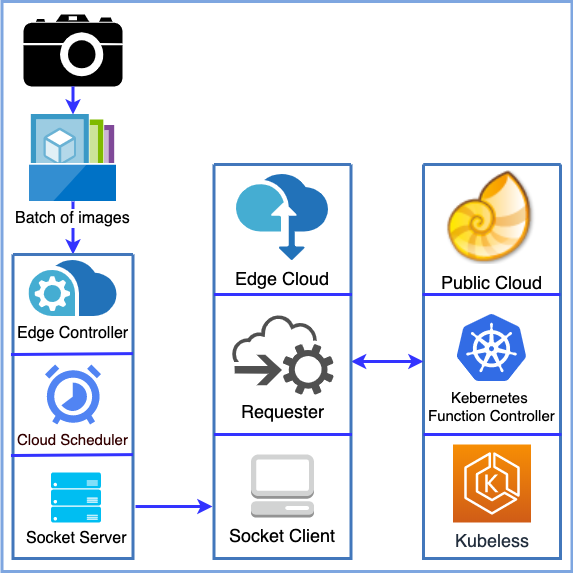
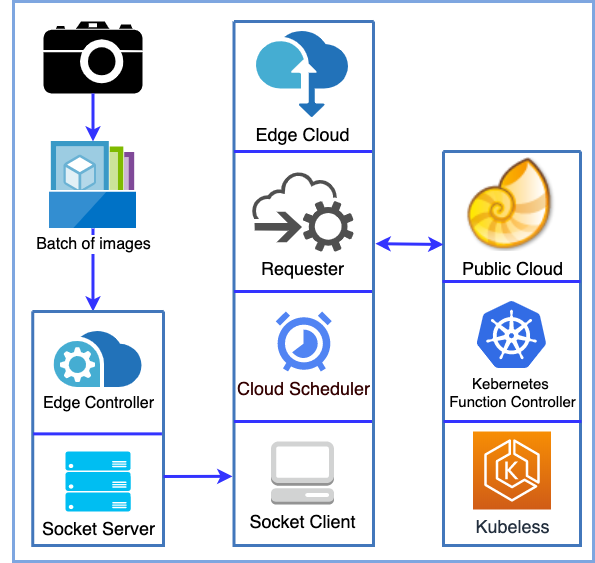
First pass on result section

Changed region(s): [[0.0, 0.0, 1.0, 1.0]]

diff --git a/results.tex b/results.tex
@@ -1,57 +1,36 @@
-In this section, we empirically evaluate STOIC's performance when executing machine learning applications. We compare its use of multiple runtimes
-versus solely using a single runtime for all batches.  In the sections
-that follow, we first describe 
-the machine learning application that we consider. We then
-present our experimental setup and results. 
+In this section, we empirically evaluate STOIC's performance when executing machine learning application. For every request, we run benchmark application on all available runtimes and compare the selection made by STOIC based on the predicted latency and the runtime with least total latency. In this section, we first describe the benchmark application that we consider, followed by our experimental setup and results. 
 
 \subsection{Benchmark Application and Dataset}
 
-We evaluate STOIC using an image processing application that classifies animal images from a wildlife monitoring system called ``Where's The Bear" (WTB)~\cite{ref:wtb}. ``Where's The Bear" is an end-to-end distributed data acquisition and analytics system that implements an IoT architecture and edge cloud. Our application makes inferences for each photo taken by deployed camera traps in Sedgwick Natural Reserve using a convolutional neural network (CNN)~\cite{ref:cnn}.  We train the model using labeled images from the WTB dataset. Technically, the application employs Tensorflow and Scikit-learn~\cite{ref:scikit} to implement 
-image classification.  
+We evaluate STOIC using an image processing application that classifies animal images from a wildlife monitoring system called ``Where's The Bear" (WTB)~\cite{ref:wtb}. ``Where's The Bear" is an end-to-end distributed data acquisition and analytics system that implements an IoT architecture and edge cloud. Our application makes inferences for each photo taken by deployed camera traps in Sedgwick Natural Reserve using a convolutional neural network (CNN)~\cite{ref:cnn}.  We train the model using labeled images from the WTB dataset. Technically, the application employs Tensorflow and Scikit-learn~\cite{ref:scikit} to implement image classification.  
 
 In total, there are five classes that we consider in the CNN model training: Bird, Fox, Rodent, Human and Empty. Since class size is unbalanced due to frequencies of animal occurrences, we up-sample minority classes (e.g. fox) using the Keras ImageDataGenerator~\cite{ref:keras}.  Doing so ensures that the classification model is not biased. We resize every image in the WTB dataset to $1920 \times 1080$, and for each class, the dataset contains 251 images used to train the CNN model. Once model training is complete, the application stores this model in hdf5 format in cloud storage at both edge cloud (disk storage) and Nautilus (a shared volume in a Ceph file system).
 
-\subsection{Performance Evaluation}
+To better harness the multiple GPU runtime in the public cloud, the application assigns each GPU to a spawned process, namely worker, and adds all images in the batch to a shared asynchronous queue. Upon the execution, all workers pick up the image job from the shared queue until it is exhausted. This mechanism ensures multiple GPUs evenly divide the workloads and achieve quasi-linear acceleration at application level, where the perfect linear speed-up is unattainable due to model loading and memory transfer overhead~\cite{ref:multi_gpu}. 
 
-\begin{table}[t] \centering 
-\input{tables/validation}
-\caption{Mean and stdev. of total response time~($T_r$) and processing time~($T_p$) of 40-image batch: STOIC schedules tasks onto the runtime (\textit{gpu1}) that has the least total response time~($T_r$).
-\label{tab:validation}}
-\end{table}
+\subsection{Efficacy Experiments}
 
-We first test the efficacy of STOIC by processing an image batch of fixed size at four runtimes individually and then compare them with STOIC. To make the result reliable, we again conduct the experiment 10 times and list the mean and standard deviation of total response time~($T_r$) and processing time~($T_p$) in Table~\ref{tab:validation}. We can observe from Table~\ref{tab:validation} that STOIC schedules 40-image batch to \textit{gpu1} runtime, based on its prediction that  \textit{gpu1} would have the least total response time~($T_r$). One important observation is that \textit{gpu2} runtime has even lower processing time~($T_p$) than \textit{gpu1}, but STOIC disregard \textit{gpu2} in this scenario, because its gain in processing time~($T_p$) does not compensate for its lengthy deployment time~($T_d$) on Nautilus cloud.
-
-\begin{figure}[t] \centering 
-\includegraphics[scale=0.32]{response-time}
-\caption{Total Response Time~($T_r$) of image batches of growing sizes: The x-axis represents the batch size, while the y-axis is the total response time~($T_r$). STOIC, which is depicted in the blue dashed line, schedules the task on the runtime with the least total response time.  
-\label{fig:response-time}}
-\end{figure}
-
-We next test STOIC by processing a series of image batches of growing sizes on the four runtimes and STOIC. Figure~\ref{fig:response-time} shows their total response times. The x-axis is the size of the image batch and the y-axis is the total response time~($T_r$) in seconds. The red curve shows that latency
-increases linearly over the \textit{edge} runtime.  The yellow curve shows the performance of the \textit{cpu} runtime in the Nautilus cloud. 
-We observe that its slope is more moderate than \textit{edge} runtime since CPUs in nodes of Nautilus cloud are usually more powerful than those in the edge cloud. The pink and green curve represent the \textit{gpu1} and \textit{gpu2} runtimes, respectively, and they intersect at a batch size of 95, at which STOIC would switch the deployment of tasks from \textit{gpu1} to \textit{gpu2}. The blue dashed line depicts the total response time~($T_r$) of STOIC, which is able to schedule a series of tasks to the runtime with the least latency. According to such result, STOIC improves system performance by determining the best runtime
-for the given task dynamically.
+We first test the efficacy of STOIC by processing a sequence of image batches at four runtimes individually and then compare them with the determined runtime by STOIC. According to 2016 WTB dataset, the size of image batch fits to normal distribution $\mathbf{N}(\mu = 42.75, \sigma^2 = 39.5)$. To conduct an unbiased evaluation, we seed the simulator to make these image batches consistent across all runtimes and STOIC.
 
 
-%\subsection{Empirical Experiment}
-
-
-% \begin{table}[t]
-%     \centering
-%     \input{tables/24-batch}
-%     \caption{\textbf{Average total response time~($T_r$) and speed-up on 24-hour dataset}: Comparing with four single runtimes, STOIC achieves lowest average latency and speed-up ranging from 6.48\% to 32.05\%. }
-%     \label{tab:24-batches}
-% \end{table}
-
-
-We next perform an empirical evaluation of STOIC by comparing the total response time~($T_r$) of multiple image batches of different sizes across the four single runtimes and STOIC.  To accelerate the repetitive experiment, we developed a simulator to generate image batches based on the frequency distribution of the WTB dataset. 
-
-According to 2016 WTB dataset, the size of image batch fits to normal distribution $\mathbf{N}(\mu = 42.75, \sigma^2 = 39.5)$. Thus, the simulator generates 24 image batches in the edge controller to emulate streaming data in one day from open field camera traps. To conduct an unbiased evaluation, we seed the simulator to make these 24 image batches consistent across all runtimes and STOIC. 
+To make the result reliable, we conduct the experiment for a 24-hour time range, in which  154 image batches (616 executions) are processed by STOIC. Based on the data we observe, STOIC successfully selects the runtime of least latency by \textbf{85.1\%} of times (131 out of 154). We then compare the actual latency between the worst selection scenario and STOIC. The total latency of selected runtime by STOIC is 8041.06 seconds, whereas in the worst scenario the total latency is 18563.82 seconds. This indicates STOIC accelerates the execution of image processing by \textbf{2.3} times if the runtimes are erroneously selected by dispatcher.
 
 \begin{figure}[t] \centering 
-\includegraphics[scale=0.42]{figures/24-batches}
-\caption{Average total response time~($T_r$) on the 24-hour dataset: The x-axis represents runtimes, while the y-axis represents the average total response time~($T_r$) by STOIC and four other runtimes on the 24-hour dataset. The data labels on columns are specific numbers of $T_r$. The seeded simulator generates the 24-hour batch sizes from the distribution of historical data. 
-\label{fig:24-batch}}
+\includegraphics[scale=0.14]{gpu1_latency.png}
+\caption{The distribution of three components in total response time~($T_r$): Processing time ($T_p$), Runtime deployment time ($T_d$) and Transfer time ($T_t$). The x-axis represents the time range, while the y-axis is the frequency of executions. The deployment time, which is depicted in the red histogram, is volatile and error-prone to prediction.
+\label{fig:breakdown}}
 \end{figure}
 
-To ensure the validity of the outcome, we run each experiment 10 times for each runtime scenario and report the average value. Figure~\ref{fig:24-batch} shows the average total response time~($T_r$) for STOIC and the four individual runtimes. STOIC achieves the lowest average latency versus the four other single runtimes.  STOIC reduces total response time~($T_r$) by 32.05\% (versus \textit{edge}), 6.48\% (versus \textit{cpu}), 11.15\% (versus \textit{gpu1}) and 12.24\% (versus \textit{gpu2}) respectively. According to such a result, we conclude that STOIC outperforms single-runtime scheduling mechanism on the empirical datasets and real-world machine learning applications.
+We further analyze the data points where STOIC made erroneous selection and found two sources of error. First, the most error occurs around two batch sizes where the total response time of runtimes have approximately same latency. To be specific, the edge and GPU runtimes cross over at 35 image batch size, and 90 image batch size for the GPU1 and GPU2 runtimes. At these cross-points, the close predictions of latency lead to incorrect selection. Second, the deployment time for GPU runtimes are volatile and error-prone to prediction. As a representative instance, Figure~\ref{fig:breakdown} demonstrates the distribution of processing time ($T_p$), transfer time ($T_t$) and deployment time ($T_d$) of GPU1 runtime. We observe geometric distribution from the histogram of processing time and transfer time, whereas deployment time varies irregularly with many outliers. These two phenomenons lead to mistaken selections in the experiment.
+
+Further, we define an error metric, Mean Deadline Error (MDE), to better gauge the predictive capability of STOIC between edge cloud and GPU runtimes. Since the dedicated edge cloud is closer to the data source and more homogeneous and robust compared to public cloud, we are only concerned when GPU runtimes have longer total latency than edge cloud and STOIC deploys the workload to GPU runtimes. Mean Deadline Error is defined as $MDE = \frac{1}{n}\sum(L_g - L_e) \,|\ if \ L_g > L_e \ \& \ R_s = GPUx $, where $L_g$ is the latency of GPU runtime, $L_e$ is the latency of edge cloud, $R_s$ is the selected runtime by STOIC. Based on the experiment data, the MDE gpu1 is \textbf{26.68} seconds (44.18\% to the mean gpu1 runtime latency) and MDE gpu2 is \textbf{43.98} seconds (47.43\% to the mean gpu2 runtime latency). This result implies that the unstable deployment time of GPU runtimes significantly affects the accuracy of prediction made by STOIC. 
+
+\begin{figure}[t] \centering 
+\includegraphics[scale=0.35]{selector_duplicator.png}
+\caption{The selector and duplicator modes of STOIC. 
+\label{fig:duplicator}}
+\end{figure}
+
+To address the above issue, we reconfigure STOIC into the duplicator mode demonstrated in Figure~\ref{fig:duplicator}. Based on the historical data, the selector makes prediction and only execute workload at the runtime with least total latency, whereas the duplicator runs workload on edge cloud and GPU runtimes concurrently, and halts the edge cloud execution if the remaining time at edge cloud is longer than the expected processing time ($T_p$) at the GPU runtime once it completes deployment. Under this mode, STOIC is able to make right selection between edge cloud and GPU1 runtime and promptly respond to the request \textbf{96.7\%} of times (149 out of 154). 
+
+In the case of gpu2 runtime, it has more variable deployment and processing time compared to gpu1 runtime, which possibly leads to lower success rate of selection. The analytics of the data proves this assumption that STOIC makes right selection between edge cloud and gpu2 runtime by \textbf{94.8\%} (146 out of 154) of times, 1.9\% lower than being with gpu1 runtime. However, the total latency of gpu1 runtime (154 image batches) is \textbf{8872.65} seconds, whereas the total latency is \textbf{8396.9} seconds for gpu2 runtime. We argue that even though STOIC make more mistakes for gpu2 than gpu1, the duplicator mode of edge cloud versus gpu2 makes the entire end-to-end system faster and more efficient. We plan to investigate runtimes with more GPUs and the trade-off between the predictability and efficiency of system as future work.

diff --git a/STOIC.tex b/STOIC.tex
@@ -8,19 +8,17 @@ To leverage hardware acceleration and distributed scheduling within a serverless
 
 \subsection{Edge Controller}
  We deploy a collection of edge devices, including multiple motion-detecting camera traps in open field and a local server as edge controller in the research facility at Sedgwick Natural Reserve~\cite{ref:sedgwick}. 
-In this deployment, we install motion-triggered cameras (i.e. camera traps) at 
-watering holes to capture images of wildlife in their natural habitat (as part of conservation science studies). The cameras are connected via a wireless radio to a computer located in an outbuilding at the reserve. We refer to this computer as the edge controller.  It is contectect to a private campus cloud via a microwave link. When a camera trap detects motion, it takes photos and persists the images in flash storage. Periodically, the camera traps transfer saved photos to the edge controller. STOIC runs on the edge controller and its execution is triggered by the arrival of batches of images from camera traps located across the reserve. When a batch arrives, STOIC partitions the image processing application (for object/animal classification) into tasks that it assigns to 1+ cloud components.
+In this deployment, we install motion-triggered cameras (i.e. camera traps) at watering holes to capture images of wildlife in their natural habitat (as part of conservation science studies). The cameras are connected via a wireless radio to a computer located in an outbuilding at the reserve. We refer to this computer as the edge controller.  It is connected to a private campus cloud via a microwave link. When a camera trap detects motion, it takes photos and persists the images in flash storage. Periodically, the camera traps transfer saved photos to the edge controller. STOIC runs on the edge controller and its execution is triggered by the arrival of batches of images from camera traps located across the reserve. When a batch arrives, STOIC partitions the image processing application (for object/animal classification) into tasks that it assigns to 1+ cloud components.
  
  \subsection{Edge Cloud}
  
-As an intermediate computational tier between the sensors and public cloud, the edge cloud can be placed anywhere, preferably near the edge devices, to lower the response latency of analytics applications processing the images. Our edge cloud is currently deployed in our lab on campus which is connected to the edge controller via a fast network link.
+As an intermediate computational tier between the sensors and public cloud, the edge cloud can be placed anywhere, preferably near the edge devices, to lower the response latency of analytics applications processing the images. It consists of three major components: (1) the \textbf{socket client} keeps listening for requests from edge controller and receives image batches. (2) the \textbf{cloud scheduler} predicts the total latency based on historical data in the attached database for each available runtime. (3) the \textbf{requester} dispatches the workload to the runtime having least latency by triggering serverless function via RESTful HTTP request either locally at the edge cloud or remotely in the public cloud. 
 
-Our edge cloud consists of a cluster of nine Intel NUCs~\cite{ref:nucs}.
-Eucalyptus cloud system~\cite{ref:euca} manages the edge cloud and supports Linux virtual machine instances. Running on an instance, the STOIC socket client listens for the request from edge controller and then either executes the job locally on edge cloud or has STOIC requester interact with public cloud to complete the designated task.
+Our edge cloud is currently deployed in our lab on campus which is connected to the edge controller via a fast network link. It consists of a cluster of nine Intel NUCs~\cite{ref:nucs} (6i7KYK) with Intel® Core™ i7-6770HQ Processor (6M Cache, 2.60 GHz) and 32GB of DDR4-2133+ RAM connected to two channels. Eucalyptus cloud system~\cite{ref:euca} manages the edge cloud and supports Linux virtual machine instances. 
  
  \subsection{Remote Public/Private Cloud}
 
-To investigate the use of the serverless architecture with hardware accelerators, we employ a shared, multi-university, GPU cloud Nautilus~\cite{ref:nautilus} as our remote cloud system. Nautilus is an Internet-connected, HyperCluster research platform led by researchers at UC San Diego, National Science Foundation, the Department of Energy, and various participating universities globally.  Being designed for running data and computationally intensive applications, Nautilus uses Kubernetes~\cite{ref:k8s} as an interface to manage and scale containerized applications.  It uses Rook~\cite{ref:rook} to integrate Ceph~\cite{ref:ceph} data services. As of Nov. 2019, Nautilus consists of 141 computing nodes across the US and 422 GPUs are available in the cluster. All of these nodes are connected via a multi-campus network. In this study, we consider Nautilus as a public cloud that enables us to leverage hardware acceleration (GPUs) in the serverless architecture to serve edge devices. 
+To investigate the use of the serverless architecture with hardware accelerators, we employ a shared, multi-university, GPU cloud Nautilus~\cite{ref:nautilus} as our remote cloud system. Nautilus is an Internet-connected, HyperCluster research platform led by researchers at UC San Diego, National Science Foundation, the Department of Energy, and various participating universities globally.  Being designed for running data and computationally intensive applications, Nautilus uses Kubernetes~\cite{ref:k8s} as an interface to manage and scale containerized applications.  It uses Rook~\cite{ref:rook} to integrate Ceph~\cite{ref:ceph} data services. As of Nov. 2019, Nautilus consists of 177 computing nodes across the US and 553 GPUs are available in the cluster. All of these nodes are connected via a multi-campus network. In this study, we consider Nautilus as a public cloud that enables us to leverage hardware acceleration (GPUs) in the serverless architecture to serve edge devices. 
  
  \subsection{Implementation}
  
@@ -86,6 +84,11 @@ these extensions.
  \subsubsection{Processing time~($T_p$)} is the execution time of a specific machine learning task. As a primary component for scheduling tasks across the hybrid cloud, we regress processing time based on prior experiment data by Bayesian Ridge Regression~\cite{ref:brr} due to its robustness to ill-posed problems compared to Ordinary Least Squares regression~\cite{ref:ols}. Thus, STOIC formulates the regression and uses it to predict the processing time based on the file size of the current batch. %Similarly to the runtime deployment time, we plan to construct a feedback control loop to dynamically update the coefficient and intercept of regression based on the incoming data of processing time as future work.
  
  \subsection{Workflow}
+ 
+ Furthermore, the hardware configuration of the edge cloud and circumstance it resides vary so remarkably that raise heterogeneity and sustainability concerns. In the open field where power outlet is unavailable, the edge cloud is built upon battery-powered single-board computers. The instability of the edge cloud leads us to configure the requester into two modes: First, the \textbf{duplicator} makes concurrent requests both to the edge cloud and the public cloud. When the public cloud runtime is successfully deployed, duplicator can possibly cease the execution at the edge cloud and start it on the public cloud runtime, when the predicted processing time \textbf{Selector} only makes request to the runtime of least latency based on prediction
+
+ 
+ 
  The STOIC workflow is as follows: based on the three time components, STOIC predicts the total response times~($T_r$) of the four deployment options. The scheduler selects the runtime with the shortest estimated response time. Then the edge controller sends a request, including the payload of compressed image batch and runtime information, to edge cloud. Upon acceptance, the edge cloud executes the task locally if the choice is the \textit{edge} runtime. Such deployment is common when a batch of images is small. 
 
 For large batch sizes, STOIC typically schedules one of the three public runtime options. For these three scenarios, the edge cloud first requests the deployment on public cloud. It then sends the payload to public cloud storage. The public cloud then deploys and executes the kubeless function. As a design decision, instead of running a requester pod in the public cloud, we run an instance on the edge cloud. We do so because the edge cloud is more stable and fault resilient than Nautilus which experiences intermittent downtime.  

diff --git a/intro.tex b/intro.tex
@@ -1,13 +1,9 @@
-With the recent shift of application architectures from monolithic to containers and microservices, serverless computing has risen as a promising cloud service where simple, stateless, 
-event-driven functions comprise applications and services. 
+With the recent shift of application architectures from monolithic to containers and microservices, serverless computing has risen as a promising cloud service where simple, stateless, event-driven functions comprise applications and services. 
 %It represents a revolutionary programming and deployment paradigm known as Function as a Service (FaaS). 
 Serverless platforms relieve
-developers of the burden of provisioning servers to deploy 
-cloud and web applications.
-Programmers typically write functions in high-level languages which are triggered by the platform in response to events from external sources or other cloud services. 
+developers of the burden of provisioning servers to deploy cloud and web applications. Programmers typically write functions in high-level languages which are triggered by the platform in response to events from external sources or other cloud services. 
 
-This function-level abstraction also provides fine-grained computational resource isolation and usage, meaning that each serverless function can autoscale independently based on the rate of incoming events. Providing such elasticity helps avoid a single point failure and performance bottlenecks in data-intensive application. From this perspective, serverless architecture is an ideal system for machine learning applications, especially for online training~\cite{ref:online} and inference, which transfer and manipulate large amounts of data or for 
-which the input sizes vary.
+This function-level abstraction also provides fine-grained computational resource isolation and usage, meaning that each serverless function can autoscale independently based on the rate of incoming events. Providing such elasticity helps avoid a single point failure and performance bottlenecks in data-intensive application. From this perspective, serverless architecture is an ideal system for machine learning applications, especially for online training~\cite{ref:online} and inference, which transfer and manipulate large amounts of data and for which the input sizes vary.
 
 To enable such an event-driven system, one concerning situation is for machine learning applications that receive their data from  heterogeneous IoT devices, ranging from temperature sensors to mobile phones to autonomous drones. For such deployments, application execution should be ``near'' (in terms of network latency) the data sources to achieve fast response times. Such settings motivate us to explore extending the serverless model to the edge for execution of data analytics applications.
 
@@ -21,4 +17,4 @@ In our work, we investigate how to extend the serverless computing model to hybr
 \label{fig:edge}}
 \end{figure}
 
-Toward this end, we present STOIC -- a Serverless TeleOperable Hybrid Cloud. As depicted in Figure~\ref{fig:edge}, STOIC is a framework to which IoT devices stream data in batches for training and inference by machine learning applications.  The framework implements serverless computing and deployment for the applications. Unique to STOIC, however, is its scheduling system which intelligently places the application workload on edge and cloud systems that it predicts will result in the fastest time to completion. Moreover, STOIC takes advantage of GPU acceleration when available from the underlying cloud resource. In this paper, we discuss the design and implementation of this architecture, investigate the efficacy of using this extended serverless model for machine learning applications that span edge-cloud systems, and  empirically evaluate the performance of doing so. Using real workloads and deployments, we find that STOIC reduces the total response time of the applications we study from 6.48\% to 32.05\%, compared with four different runtimes, each running in isolation. Finally, we discuss related and future work and conclude.
+Toward this end, we present STOIC -- a Serverless TeleOperable Hybrid Cloud. As depicted in Figure~\ref{fig:edge}, STOIC is a framework to which IoT devices stream data in batches for training and inference by machine learning applications.  The framework implements serverless computing and deployment for the applications. Unique to STOIC, however, is its scheduling system which intelligently places the application workload on edge and cloud systems that it predicts will result in the fastest time to completion. Moreover, STOIC takes advantage of GPU acceleration when available from the underlying cloud resource. In this paper, we discuss the design and implementation of this architecture, investigate the efficacy of using this extended serverless model for machine learning applications that span edge-cloud systems, and  empirically evaluate the performance of doing so. Using real workloads and deployments, we find that STOIC reduces the total response time of the applications we study from 6.48\% to 32.05\%, compared with four different runtimes, each running in isolation. In the system level evaluation, STOIC in duplicator mode successfully responds to 94.8\% of requested workloads with the least latency in a 24-hour experiment. Finally, we discuss related and future work and conclude.

diff --git a/abstract.tex b/abstract.tex
@@ -1,6 +1,11 @@
-Serverless computing is a promising new event-driven programming model that was designed by cloud vendors to expedite the development and deployment of scalable web services on cloud computing systems. Using the model, developers write applications that consist of simple, independent, stateless functions that the cloud invokes on-demand (i.e. elastically), in response to system-wide events (data arrival, messages, web requests, etc.).
+Serverless computing is a promising new eventdriven
+programming model that was designed by cloud vendors
+to expedite the development and deployment of scalable web
+services on cloud computing systems. Using the model, developers write applications that consist of simple, independent, stateless functions that the cloud invokes on-demand (i.e. elastically), in response to system-wide events (data arrival, messages, web requests, etc.).
 
-In this work, we present STOIC (Serverless TeleOperable HybrId Cloud), an application scheduling and deployment system that extends the serverless model in two ways. First, it uses the model in a distributed setting and schedules application functions across multiple cloud systems. Second, STOIC supports serverless function execution using hardware acceleration (e.g. GPU resources) when available from the underlying cloud system. We overview the design and implementation of STOIC and empirically evaluate it using real-world machine learning applications and multi-tier (e.g. edge-cloud) deployments. We find that STOIC's combined use of edge and cloud resources is able to outperform using either cloud in isolation for the applications and datasets that we consider.
+In this work, we present STOIC (Serverless TeleOperable HybrId Cloud), an application scheduling and deployment system that extends the serverless model in three ways. First, STOIC adopts random sample consensus (RANSAC) and dynamic median window to precisely predict latency, based on which the scheduler dispatches image workloads across multiple cloud systems of a consistent serverless framework. Second, STOIC supports serverless function execution using hardware acceleration (e.g. GPU resources) when available from the underlying cloud system. Third, STOIC switches between selector and duplicator modes to address the instability of edge cloud clusters. 
+
+We overview the design and implementation of STOIC and empirically evaluate it using real-world machine learning applications and multi-tier (e.g. edge-cloud) deployments. We find that STOIC's combined use of edge and cloud resources is able to outperform using either cloud in isolation and boost the system efficiency by selector and duplicator for the applications and datasets that we consider.
 
 %Through our evaluation, STOIC outperforms single-runtime systems on real-world applications for IoT devices and edge cloud. In this paper, we present the design and implementation of STOIC, along with the empirical evaluation of its efficacy and performance for machine learning applications.
 

diff --git a/paper.tex b/paper.tex
@@ -15,7 +15,7 @@
 \begin{document}
 
 % paper title
-\title{STOIC: Serverless Teleoperable Hybrid Cloud for Machine Learning Applications on Edge Device}
+\title{A Consistent and Adaptable Serverless Framework for Machine Learning Application on Edge Cloud}
 
 \author{\IEEEauthorblockN{Michael Zhang, Chandra Krintz, Rich Wolski}
 \IEEEauthorblockA{\textit{Dept. of Computer Science} \\
@@ -34,10 +34,10 @@
 % make the title area
 \maketitle
 
-\begin{abstract}
-\label{sec:abstract}
-\input{abstract}
-\end{abstract}
+% \begin{abstract}
+% \label{sec:abstract}
+% \input{abstract}
+% \end{abstract}
 
 \begin{IEEEkeywords}
 Serverless computing; Edge computing; Image Processing; Internet of Things
@@ -54,36 +54,36 @@ Serverless computing; Edge computing; Image Processing; Internet of Things
 % creates the second title. It will be ignored for other modes.
 \IEEEpeerreviewmaketitle
 
-\section{Introduction}
-\label{sec:intro}
-\input{intro}
+% \section{Introduction}
+% \label{sec:intro}
+% \input{intro}
 
 %\section{Background}
 %\label{sec:background}
 %\input{background}
 
-\section{STOIC}
-\label{sec:STOIC}
-\input{STOIC}
+% \section{STOIC}
+% \label{sec:STOIC}
+% \input{STOIC}
 
 \section{Evaluation}
 \label{sec:eval}
 \input{results}
 
-\section{Related Work}
-\label{sec:relate_work}
-\input{related_work}
+% \section{Related Work}
+% \label{sec:relate_work}
+% \input{related_work}
 
 
-\section{Conclusion}
-\label{sec:conclusion}
-\input{conclusion}
+% \section{Conclusion}
+% \label{sec:conclusion}
+% \input{conclusion}
 
 
-\section*{Acknowledgments}
-This work has been supported in part by NSF (CNS-1703560, CCF-1539586,
-ACI-1541215), ONR NEEC (N00174-16-C-0020),
-and the AWS Cloud Credits for Research program.
+% \section*{Acknowledgments}
+% This work has been supported in part by NSF (CNS-1703560, CCF-1539586,
+% ACI-1541215), ONR NEEC (N00174-16-C-0020),
+% and the AWS Cloud Credits for Research program.
 
 
 % references section
